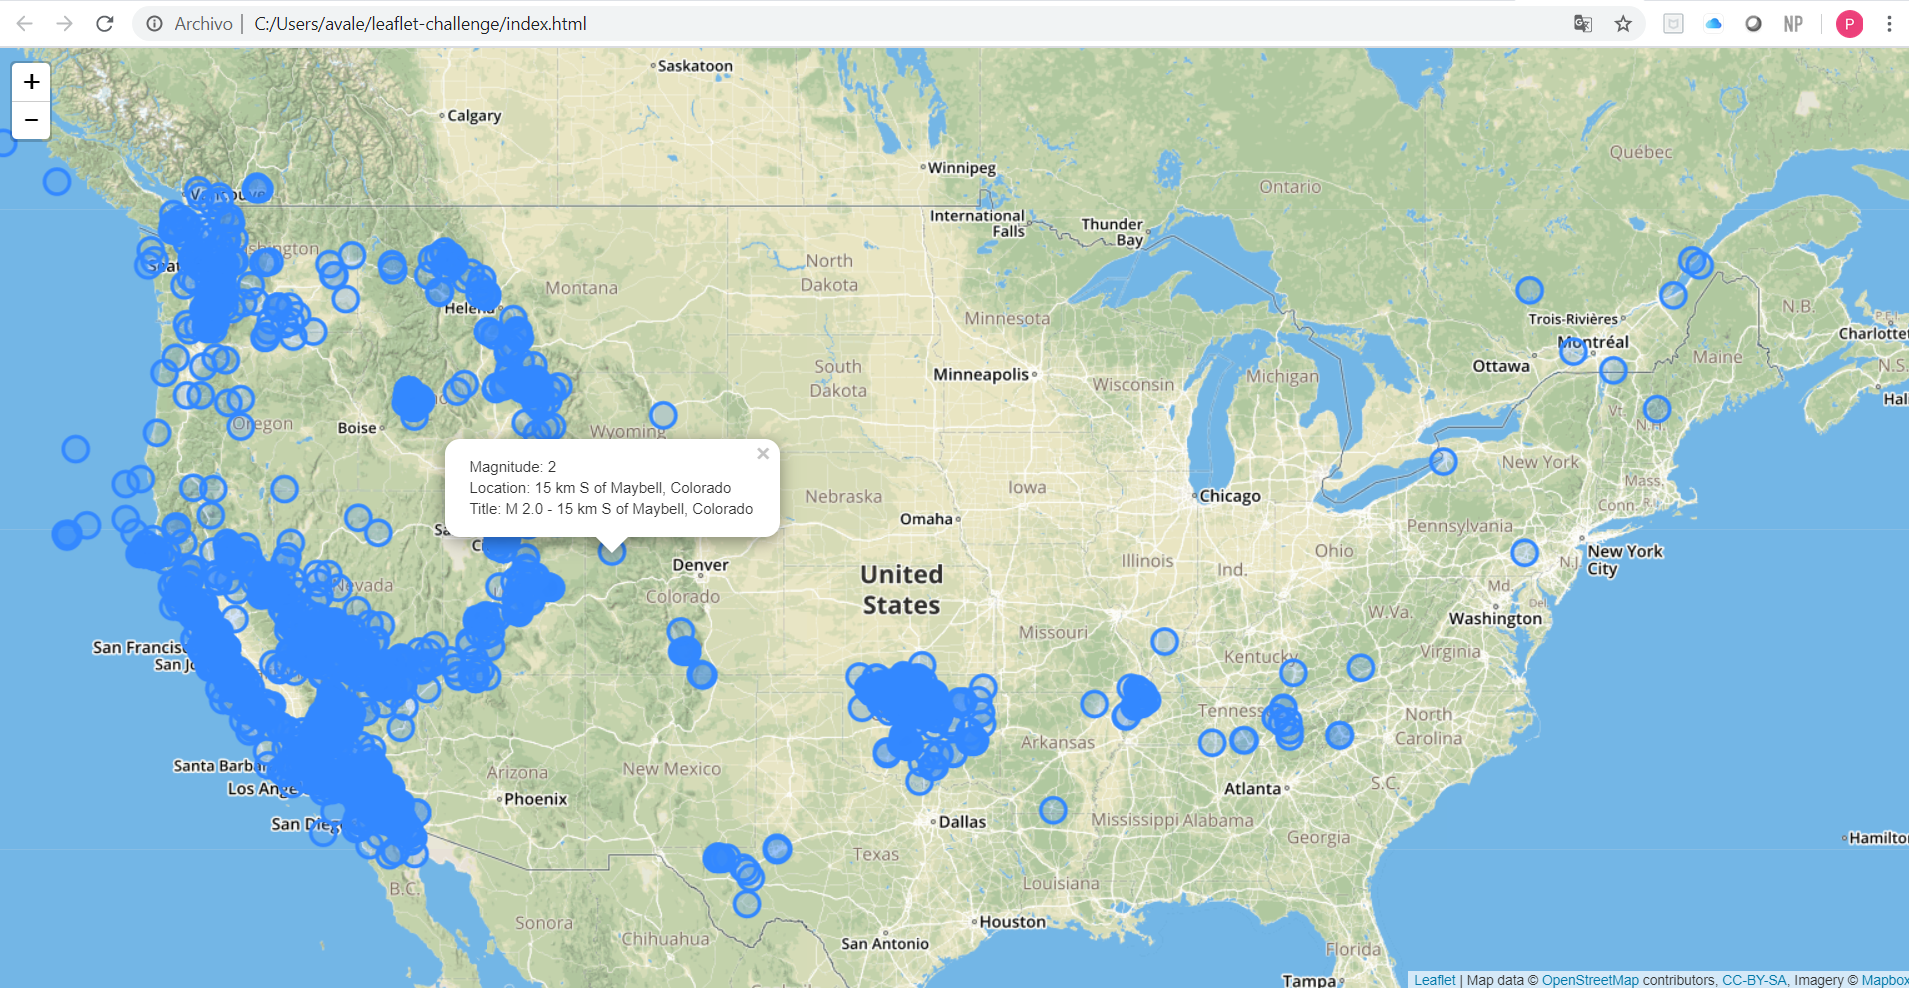
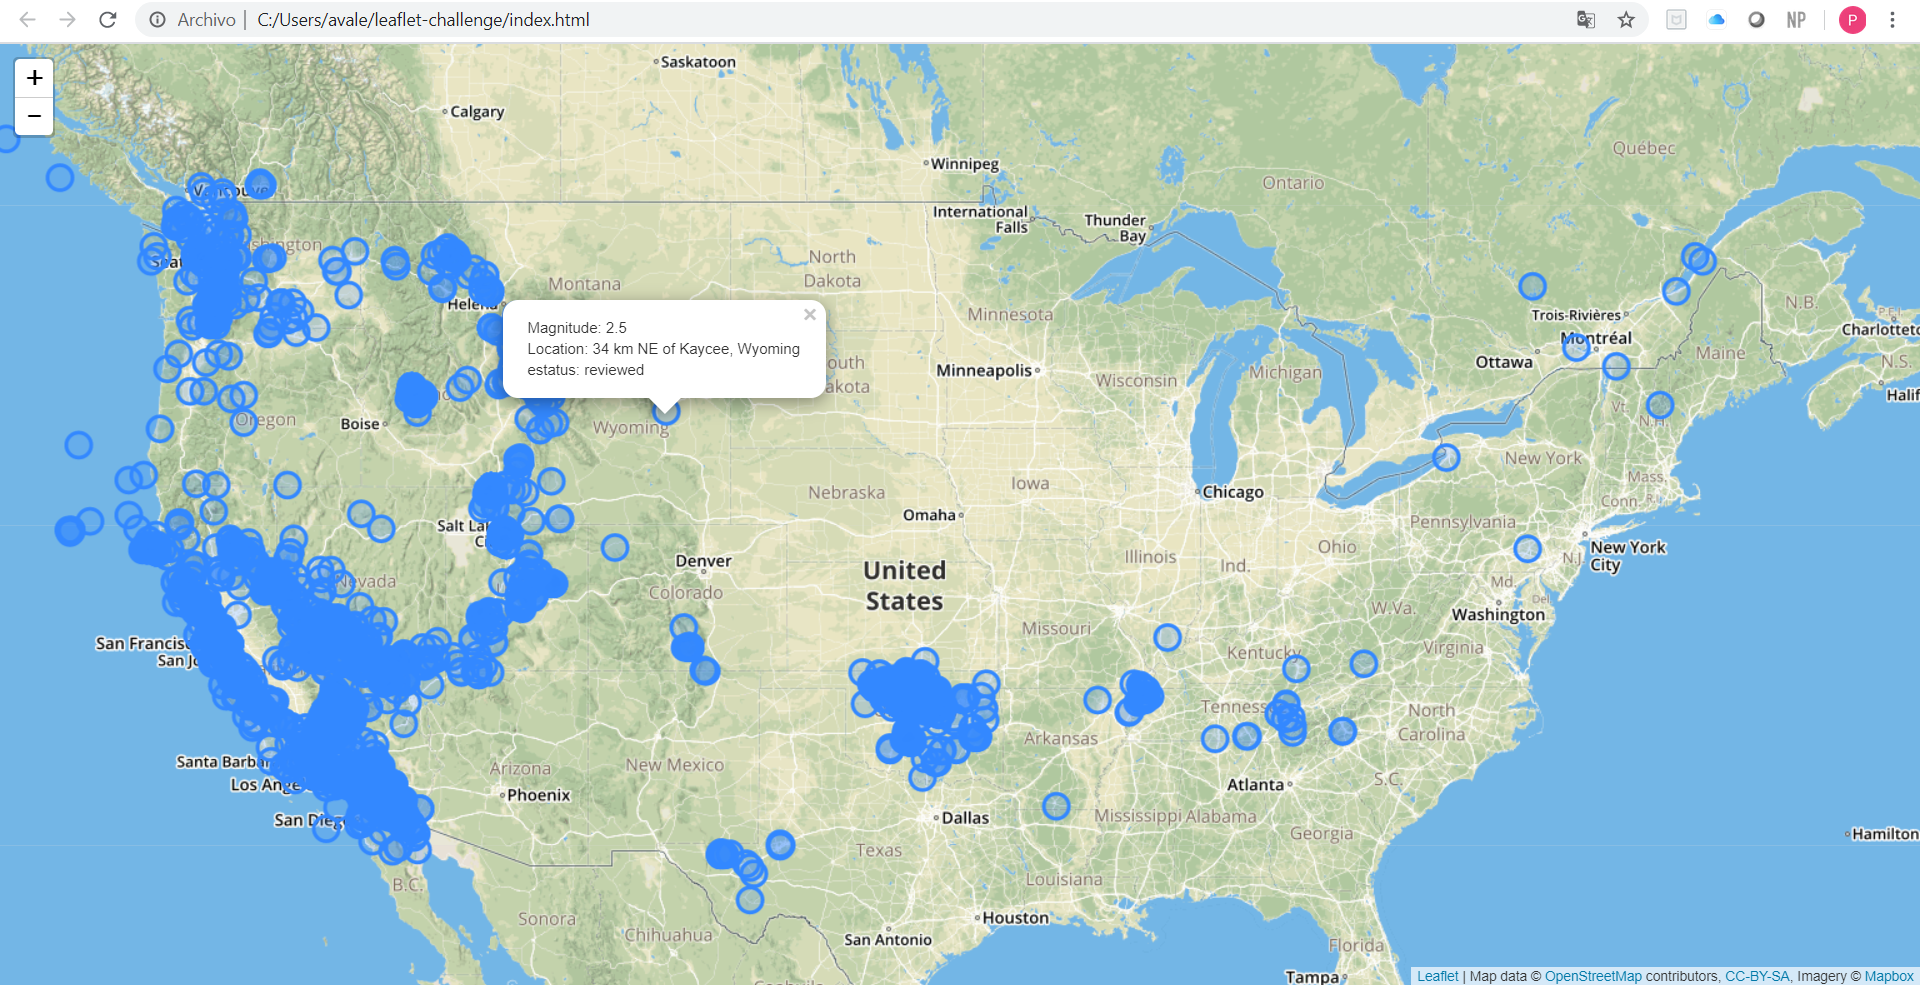
2o commit

diff --git a/static/js/logic.js b/static/js/logic.js
@@ -38,7 +38,7 @@ function markerSize(magnitud) {
                
                 
     onEachFeature: function(feature, layer) {
-      layer.bindPopup("Magnitude: " + feature.properties.mag + "<br>Location: " + feature.properties.place+ "<br>Title: " + feature.properties.title);
+      layer.bindPopup("Magnitude: " + feature.properties.mag + "<br>Location: " + feature.properties.place+ "<br>estatus: " + feature.properties.status);
     }
   }).addTo(map);
 
